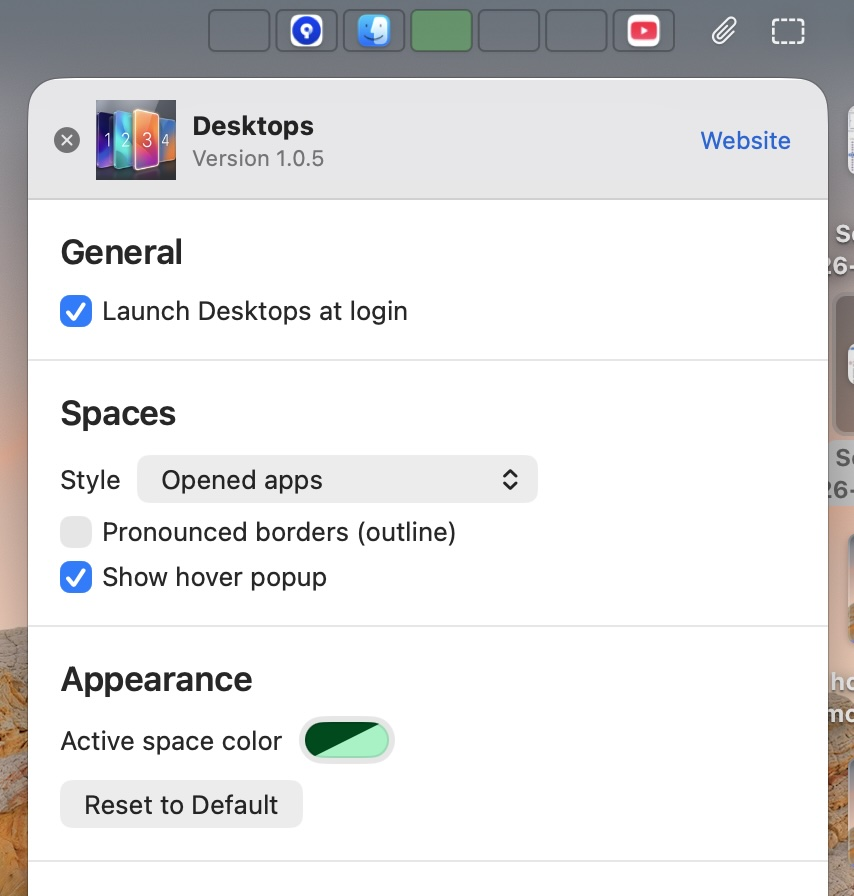
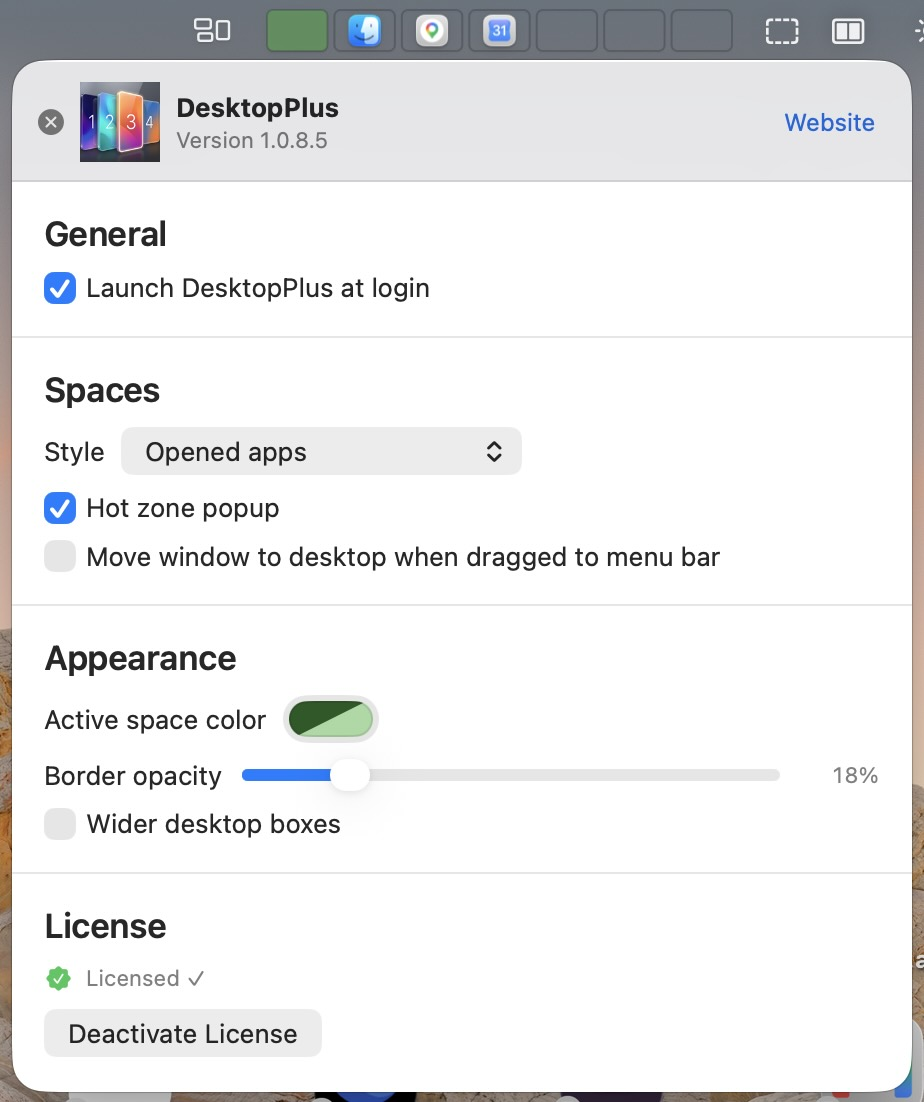
updated

Changed region(s): [[0.0, 0.0, 1.0, 1.0], [0.5176, 0.4062, 0.548, 0.4375]]

diff --git a/spaceman-landing.html b/spaceman-landing.html
@@ -693,11 +693,20 @@
             align-items: center;
         }
 
+        .features-cards {
+            background: var(--clr-bg);
+            padding: 60px 32px 80px;
+        }
+
+        .features-cards-header {
+            text-align: center;
+            margin-bottom: 40px;
+        }
+
         .features-grid {
             display: grid;
             grid-template-columns: repeat(3, 1fr);
             gap: 24px;
-            margin-top: 56px;
         }
 
         .feature-card {
@@ -708,6 +717,18 @@
             -webkit-backdrop-filter: blur(12px);
             border: 1px solid var(--clr-glass-border);
             transition: transform var(--transition-smooth), border-color 0.3s, box-shadow 0.3s;
+        }
+
+        .feature-card--wide {
+            grid-column: 1 / -1;
+            display: flex;
+            align-items: center;
+            gap: 28px;
+        }
+
+        .feature-card--wide .feature-icon {
+            flex-shrink: 0;
+            margin-bottom: 0;
         }
 
         .feature-card:hover {
@@ -807,6 +828,7 @@
         .prefs-visual img {
             width: 100%;
             max-width: 480px;
+            height: auto;
             border-radius: var(--radius-lg);
             box-shadow: 0 24px 64px rgba(0, 0, 0, 0.4), 0 0 0 1px rgba(255, 255, 255, 0.04);
         }
@@ -1050,6 +1072,17 @@
                 margin-right: auto;
             }
 
+            .feature-card--wide {
+                grid-column: auto;
+                flex-direction: column;
+                align-items: flex-start;
+                gap: 0;
+            }
+
+            .feature-card--wide .feature-icon {
+                margin-bottom: 20px;
+            }
+
             .features-header,
             .showcase .container,
             .prefs .container {
@@ -1145,6 +1178,10 @@
 
             .whats-new {
                 padding: 64px 20px;
+            }
+
+            .features-cards {
+                padding: 48px 20px 64px;
             }
 
             .nav-links a {
@@ -1325,7 +1362,7 @@
                 <article class="release-card">
                     <div class="release-card-header">
                         <div class="release-version-badge">
-                            <span class="version-tag">DesktopPlus v1.0.6</span>
+                            <span class="version-tag">DesktopPlus v1.0.8</span>
                             <span class="release-badge latest">Latest Release</span>
                         </div>
                         <time class="release-date">November 2026</time>
@@ -1341,10 +1378,10 @@
                                 </div>
                             </li>
                             <li class="changelog-item">
-                                <span class="change-tag tag-improvement">Improvement</span>
+                                <span class="change-tag tag-feature">New Feature</span>
                                 <div class="change-content">
-                                    <strong>Refined User Interface &amp; Visual Aesthetics</strong>
-                                    <p>Polished menu bar indicators with smoother animations, for elevated native feel.</p>
+                                    <strong>Recent apps</strong>
+                                    <p>List of your most recently closed apps in hot zone popover, so you can always revisit them easily.</p>
                                 </div>
                             </li>
                         </ul>
@@ -1372,45 +1409,6 @@
                 <div class="hero-visual reveal reveal-delay-3">
                     <img src="landing-assets/spaceman-example.jpg" alt="DesktopPlus showing desktops in the macOS menu bar"
                         width="520" height="auto" loading="lazy">
-                </div>
-            </div>
-
-            <div class="features-grid">
-                <div class="feature-card reveal reveal-delay-1" id="feature-manage">
-                    <div class="feature-icon">📊</div>
-                    <h3>Manage Apps</h3>
-                    <p>View opened apps, monitor system memory usage, and close background applications directly from
-                        the menu bar.</p>
-                </div>
-                <div class="feature-card reveal reveal-delay-2" id="feature-glance">
-                    <div class="feature-icon">👁</div>
-                    <h3>Always Visible</h3>
-                    <p>A persistent indicator in your menu bar shows exactly which desktop you're on, no need to swipe
-                        or
-                        open Mission Control.</p>
-                </div>
-                <div class="feature-card reveal reveal-delay-3" id="feature-click">
-                    <div class="feature-icon">🖱</div>
-                    <h3>Click to Switch</h3>
-                    <p>Switch to any desktop with a single click on the menu bar indicator.</p>
-                </div>
-                <div class="feature-card reveal reveal-delay-1" id="feature-styles">
-                    <div class="feature-icon">🎨</div>
-                    <h3>Multiple Styles</h3>
-                    <p>Choose from rectangles, numbers, numbered rectangles, or opened-app indicators. Pick the style
-                        that fits your workflow.</p>
-                </div>
-                <div class="feature-card reveal reveal-delay-2" id="feature-native">
-                    <div class="feature-icon">⚡</div>
-                    <h3>Native & Lightweight</h3>
-                    <p>Built with Swift and SwiftUI. Uses minimal resources, no Electron, no background daemons, no
-                        performance overhead.</p>
-                </div>
-                <div class="feature-card reveal reveal-delay-3" id="feature-launch">
-                    <div class="feature-icon">🚀</div>
-                    <h3>Launch at Login</h3>
-                    <p>Set it once and forget it. DesktopPlus starts silently when you log in, ready whenever you
-                        need it.</p>
                 </div>
             </div>
         </div>
@@ -1465,6 +1463,12 @@
                 </div>
 
                 <div style="margin-top: 48px;">
+                    <div class="section-label reveal">Workspace Presets</div>
+                    <h2 class="reveal reveal-delay-1" style="font-size: clamp(1.55rem, 5vw, 2rem);">Workspace App Presets<br>&amp; Quick Launch</h2>
+                    <p class="section-desc reveal reveal-delay-2">Save custom snapshots of currently open applications into reusable presets, allowing you to instantly restore and launch complete multi-app workflows with a single click.</p>
+                </div>
+
+                <div style="margin-top: 48px;">
                     <div class="section-label reveal">Residual Processes</div>
                     <h2 class="reveal reveal-delay-1" style="font-size: clamp(1.55rem, 5vw, 2rem);">Clean residual processes.<br>Free up RAM instantly.</h2>
                     <p class="section-desc reveal reveal-delay-2">Detect and clean lingering background processes left behind by closed apps. Reclaim memory with a single click to keep your Mac running snappy and smooth.</p>
@@ -1478,8 +1482,64 @@
                     class="reveal reveal-delay-3">
                 <img src="landing-assets/task-app-manager.jpg" alt="Integrated task and app manager" width="480"
                     loading="lazy" class="reveal reveal-delay-4">
+                <img src="landing-assets/presets.jpg" alt="Workspace App Presets and Quick Launch menu" width="480"
+                    height="383" loading="lazy" class="reveal reveal-delay-4">
                 <img src="landing-assets/clean-ram.jpg" alt="Clean residual processes and free RAM" width="480"
                     loading="lazy" class="reveal reveal-delay-5">
+            </div>
+        </div>
+    </section>
+
+    <!-- FEATURE CARDS -->
+    <section class="features-cards" id="feature-highlights">
+        <div class="container">
+            <div class="features-cards-header">
+                <div class="section-label reveal">Key Features</div>
+            </div>
+            <div class="features-grid">
+                <div class="feature-card reveal reveal-delay-1" id="feature-manage">
+                    <div class="feature-icon">📊</div>
+                    <h3>Manage Apps</h3>
+                    <p>View opened apps, monitor system memory usage, and close background applications directly from
+                        the menu bar.</p>
+                </div>
+                <div class="feature-card reveal reveal-delay-2" id="feature-glance">
+                    <div class="feature-icon">👁</div>
+                    <h3>Always Visible</h3>
+                    <p>A persistent indicator in your menu bar shows exactly which desktop you're on, no need to swipe
+                        or
+                        open Mission Control.</p>
+                </div>
+                <div class="feature-card reveal reveal-delay-3" id="feature-click">
+                    <div class="feature-icon">🖱</div>
+                    <h3>Click to Switch</h3>
+                    <p>Switch to any desktop with a single click on the menu bar indicator.</p>
+                </div>
+                <div class="feature-card reveal reveal-delay-1" id="feature-styles">
+                    <div class="feature-icon">🎨</div>
+                    <h3>Multiple Styles</h3>
+                    <p>Choose from rectangles, numbers, numbered rectangles, or opened-app indicators. Pick the style
+                        that fits your workflow.</p>
+                </div>
+                <div class="feature-card reveal reveal-delay-2" id="feature-native">
+                    <div class="feature-icon">⚡</div>
+                    <h3>Native &amp; Lightweight</h3>
+                    <p>Built with Swift and SwiftUI. Uses minimal resources, no Electron, no background daemons, no
+                        performance overhead.</p>
+                </div>
+                <div class="feature-card reveal reveal-delay-3" id="feature-launch">
+                    <div class="feature-icon">🚀</div>
+                    <h3>Launch at Login</h3>
+                    <p>Set it once and forget it. DesktopPlus starts silently when you log in, ready whenever you
+                        need it.</p>
+                </div>
+                <div class="feature-card feature-card--wide reveal reveal-delay-1" id="feature-presets">
+                    <div class="feature-icon">🗂</div>
+                    <div>
+                        <h3>Workspace App Presets &amp; Quick Launch</h3>
+                        <p>Save custom snapshots of currently open applications into reusable presets, allowing you to instantly restore and launch complete multi-app workflows with a single click.</p>
+                    </div>
+                </div>
             </div>
         </div>
     </section>
